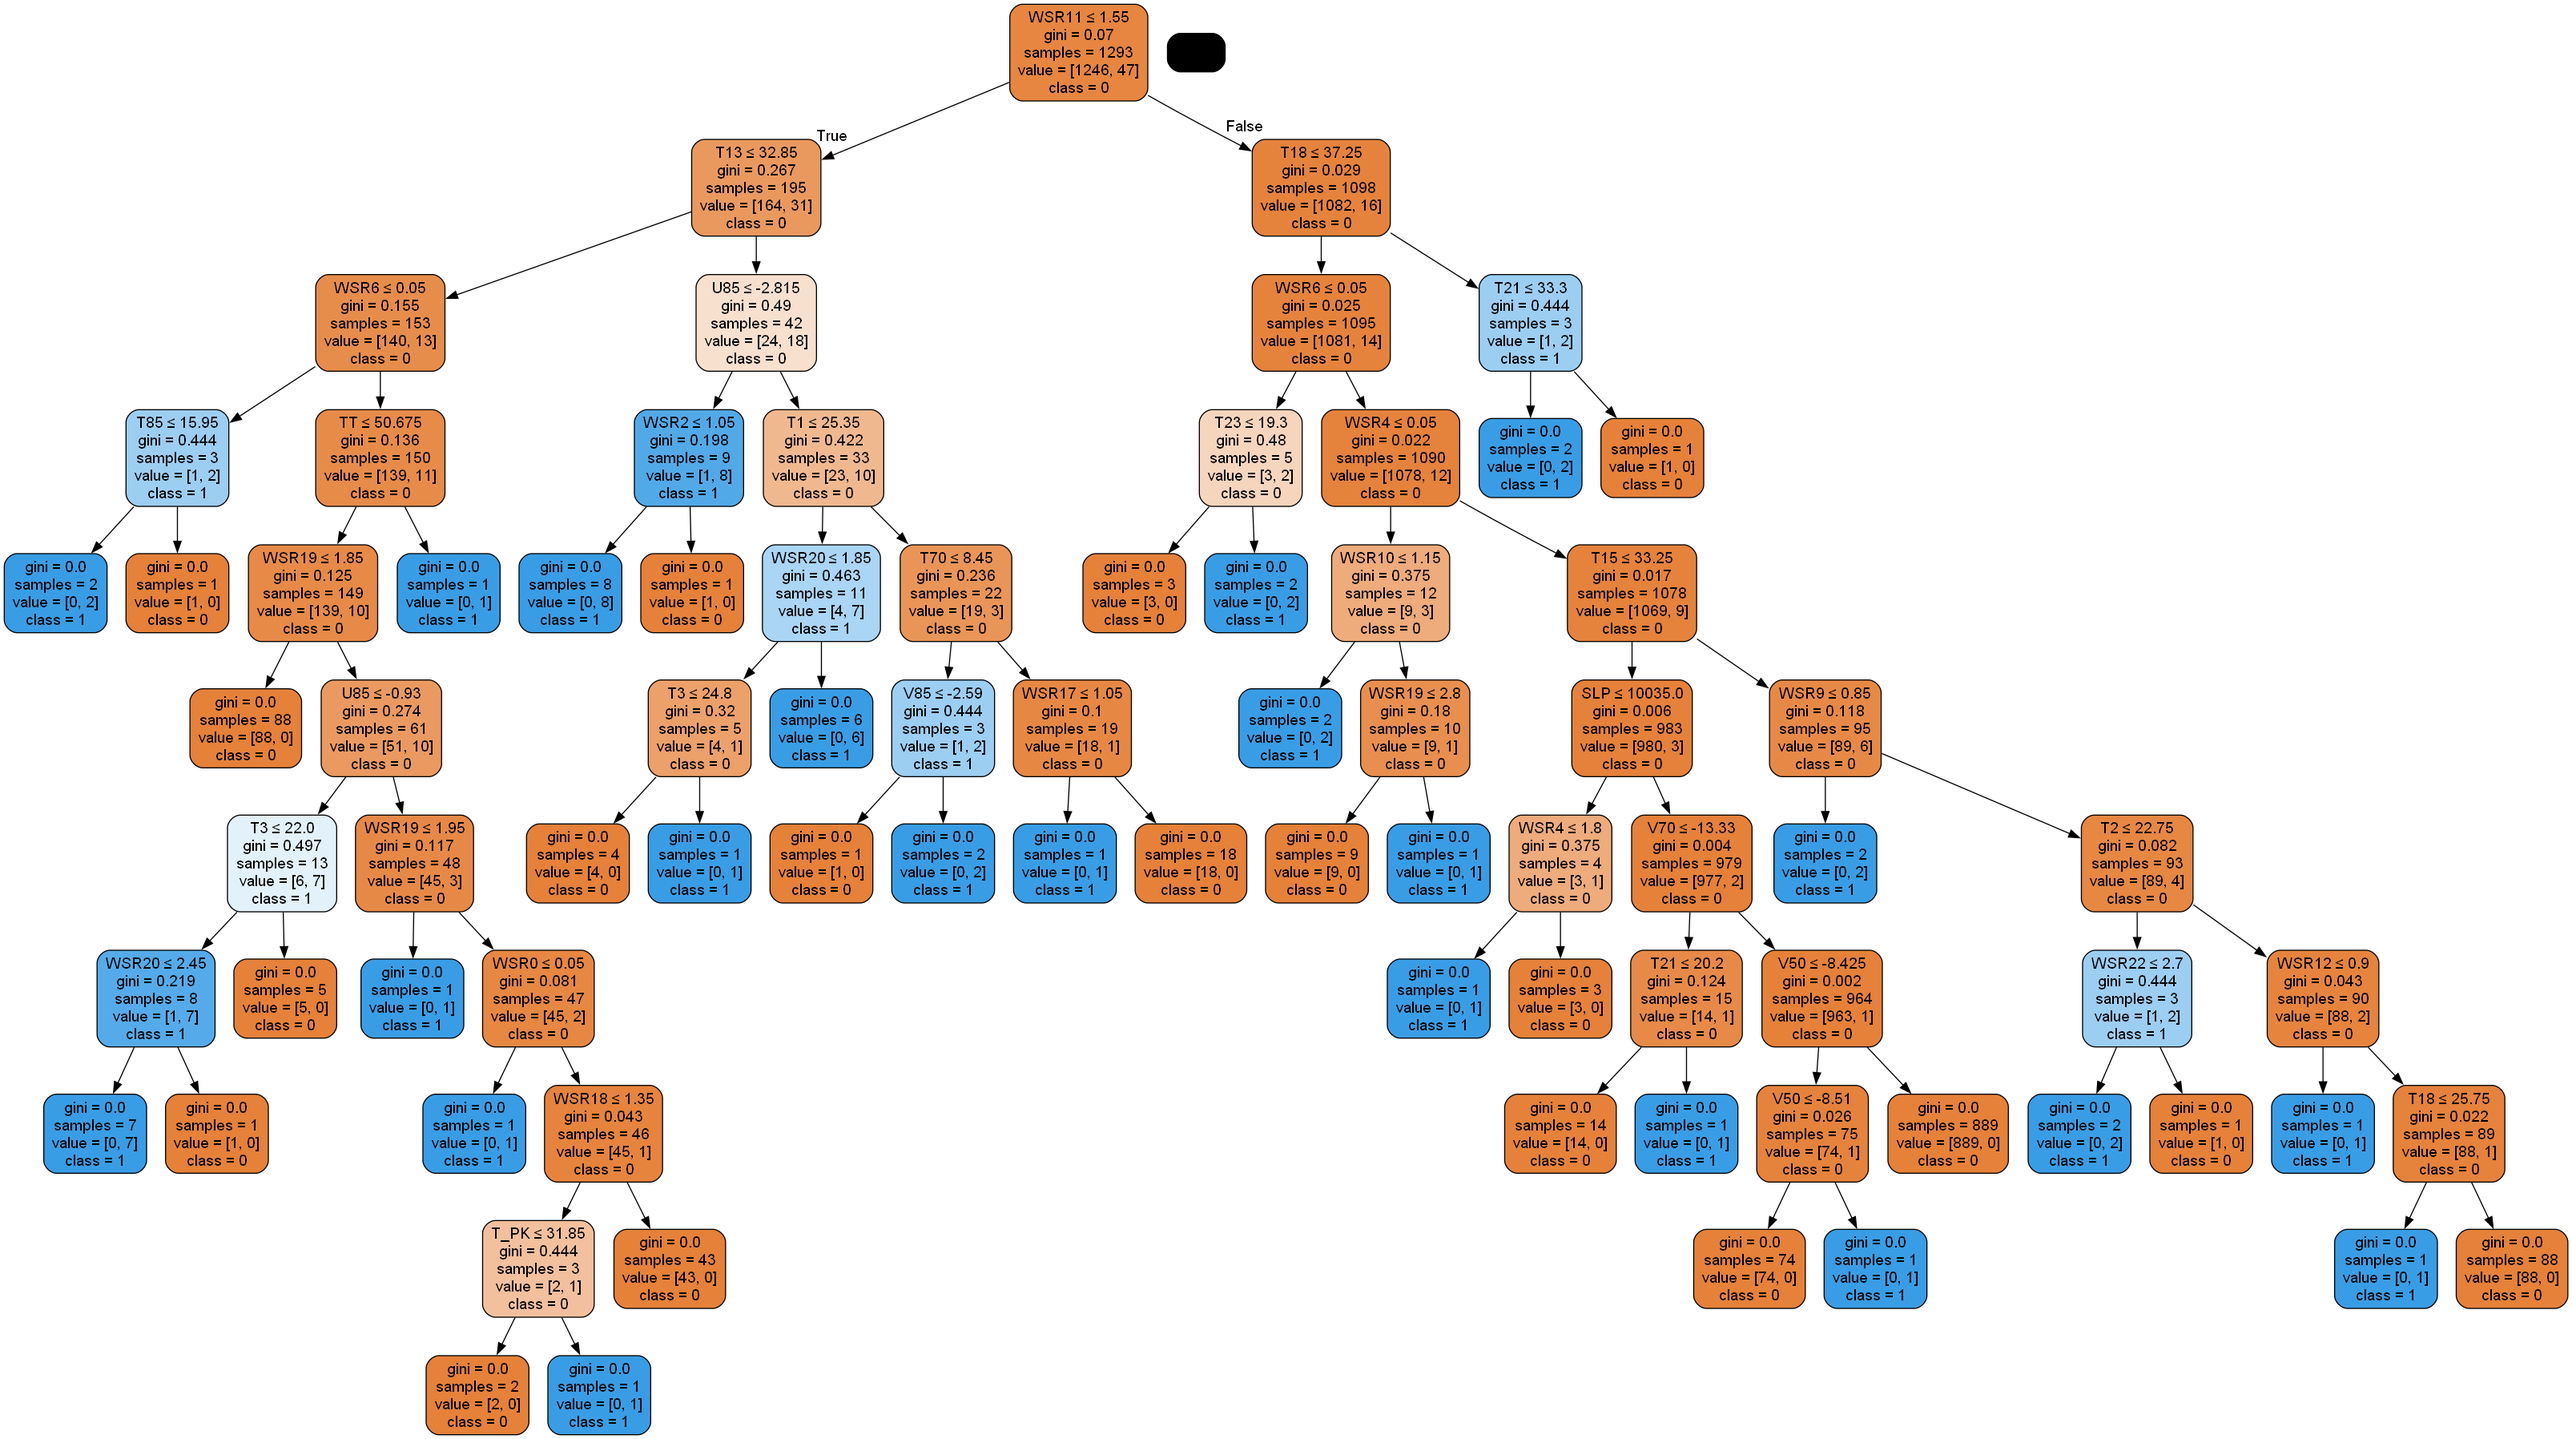
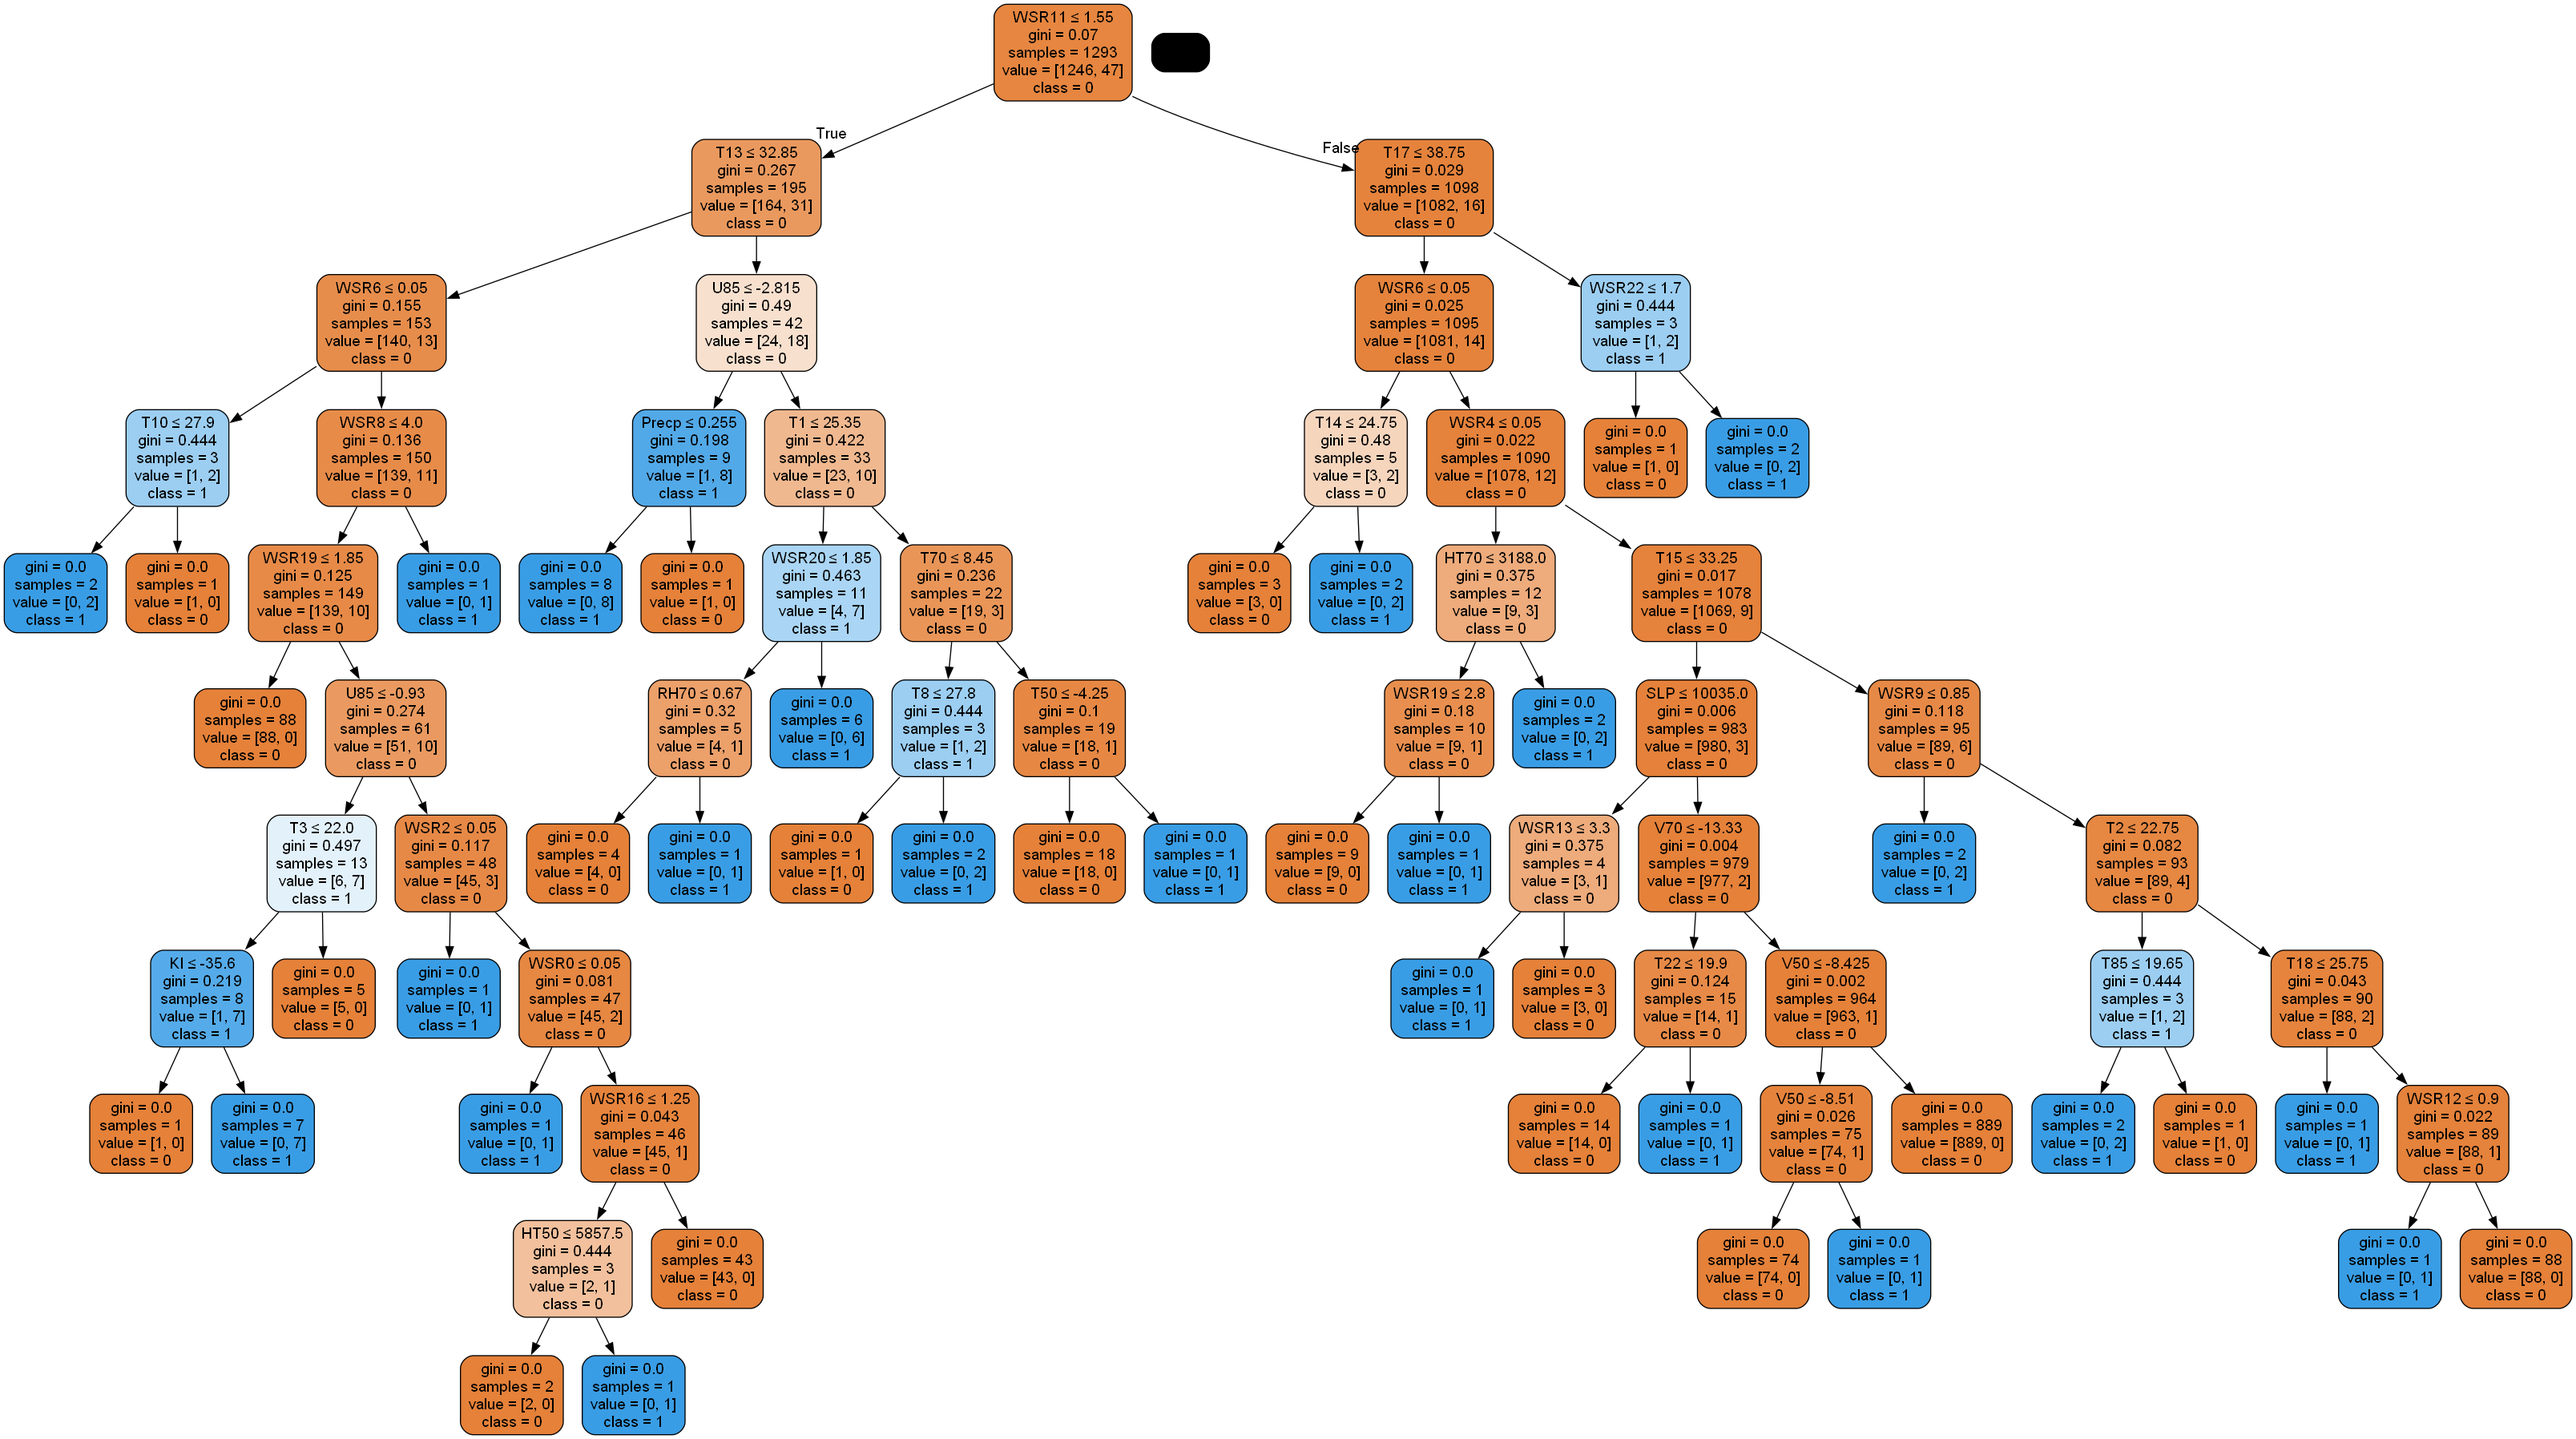
Added CV and Resampling Methods

diff --git a/Ex1/Ozone Layer/NN.py b/Ex1/Ozone Layer/NN.py
@@ -1,7 +1,8 @@
 import time
 import pandas as pd
 from sklearn.neural_network import MLPClassifier
-from sklearn.model_selection import train_test_split
+from sklearn.model_selection import train_test_split, cross_val_score
+from sklearn.preprocessing import StandardScaler
 from sklearn import metrics
 
 df = pd.read_pickle('../../datasets/Ozone/data_preprocessed.pkl')
@@ -12,8 +13,16 @@ y = df.Class
 # Split dataset into training set and test set
 X_train, X_test, y_train, y_test = train_test_split(X, y, test_size=0.3, random_state=1)
 
+# Scale Data. Important for NN.
+scaler = StandardScaler()
+scaler.fit(X_train)
+X_train = scaler.transform(X_train)
+X_test = scaler.transform(X_test)
+
 # Create Neural Network classifier object
-mlp = MLPClassifier(hidden_layer_sizes= (74,74,74,74,74), activation='identity', solver='adam')
+mlp = MLPClassifier(hidden_layer_sizes= (70, 100, 70),
+                    activation='tanh',
+                    solver='adam')
 
 start = time.time()
 # Train Neural Network
@@ -21,14 +30,66 @@ mlp = mlp.fit(X_train,y_train)
 end = time.time()
 duration = end - start
 
-# Predict response for training and test dataset
-pred_train = mlp.predict(X_train)
+# Predict response for test dataset
 pred_test = mlp.predict(X_test)
 
 # Model Accuracy, how often is the classifier correct?
 print(f"Duration: {round(duration,2)}s")
-print(metrics.classification_report(y_train, pred_train))
 print(metrics.classification_report(y_test, pred_test))
 cm = metrics.confusion_matrix(y_test, pred_test)
 disp = metrics.ConfusionMatrixDisplay(confusion_matrix=cm)
 disp.plot().figure_.savefig('Confusion_matrix_Ozone_NN.png')
+
+# Cross Validation
+start = time.time()
+scores = cross_val_score(mlp, X, y, cv=5)
+end = time.time()
+elapsed_time = end - start
+print("Cross validation yielded %0.2f accuracy with a standard deviation of %0.2f in time %0.2f s" % (
+    scores.mean(),
+    scores.std(),
+    elapsed_time))
+
+# Since the class '1' is obviously underpresented we are trying in the following to countersteer
+# by adding more observations of this class using the SMOTE method.
+from imblearn.over_sampling import SMOTE
+
+sm = SMOTE(random_state=22)
+X_train_res, y_train_res = sm.fit_resample(X_train, y_train)
+
+scaler = StandardScaler()
+scaler.fit(X_train_res)
+X_train_res = scaler.transform(X_train_res)
+X_test = scaler.transform(X_test)
+
+# Create Neural Network classifier object
+mlp = MLPClassifier(hidden_layer_sizes= (70, 100, 70),
+                    activation='tanh',
+                    solver='adam')
+
+start = time.time()
+# Train Neural Network
+mlp = mlp.fit(X_train_res,y_train_res)
+end = time.time()
+duration = end - start
+
+# Predict response for test dataset
+pred_test = mlp.predict(X_test)
+
+# Model Accuracy, how often is the classifier correct?
+print("---- Using SMOTE ----")
+print(f"Duration: {round(duration,2)}s")
+print(metrics.classification_report(y_test, pred_test))
+cm = metrics.confusion_matrix(y_test, pred_test)
+disp = metrics.ConfusionMatrixDisplay(confusion_matrix=cm)
+disp.plot().figure_.savefig('Confusion_matrix_Ozone_NN_resampled.png')
+
+# Cross Validation
+start = time.time()
+scores = cross_val_score(mlp, X, y, cv=5)
+end = time.time()
+elapsed_time = end - start
+print("Cross validation yielded %0.2f accuracy with a standard deviation of %0.2f in time %0.2f s" % (
+    scores.mean(),
+    scores.std(),
+    elapsed_time))

diff --git a/Ex1/Ozone Layer/DecisionTree.py b/Ex1/Ozone Layer/DecisionTree.py
@@ -1,7 +1,7 @@
 import time
 import pandas as pd
 from sklearn.tree import DecisionTreeClassifier
-from sklearn.model_selection import train_test_split
+from sklearn.model_selection import train_test_split, cross_val_score
 from sklearn import metrics
 # for plotting the DT
 from six import StringIO
@@ -36,6 +36,16 @@ cm = metrics.confusion_matrix(y_test, pred_test)
 disp = metrics.ConfusionMatrixDisplay(confusion_matrix=cm)
 disp.plot().figure_.savefig('Confusion_matrix_Ozone_DT.png')
 
+#Cross Validation
+start = time.time()
+scores = cross_val_score(clf, X, y, cv=5)
+end = time.time()
+elapsed_time = end - start
+print("Cross validation yielded %0.2f accuracy with a standard deviation of %0.2f in time %0.2f s" % (
+    scores.mean(),
+    scores.std(),
+    elapsed_time))
+
 # Plot decision tree
 dot_data = StringIO()
 export_graphviz(clf, out_file=dot_data,
@@ -44,3 +54,36 @@ export_graphviz(clf, out_file=dot_data,
 graph = pydotplus.graph_from_dot_data(dot_data.getvalue())
 graph.write_png('DecisionTree_Ozone.png')
 Image(graph.create_png())
+
+# Since the class '1' is obviously underpresented we are trying in the following to countersteer
+# by adding more observations of this class using the SMOTE method.
+from imblearn.over_sampling import SMOTE
+
+sm = SMOTE(random_state=22)
+X_train_res, y_train_res = sm.fit_resample(X_train, y_train)
+
+start = time.time()
+# Train Decision Tree Classifier
+clf = clf.fit(X_train_res,y_train_res)
+end = time.time()
+duration = end - start
+
+# Predict response for training and test dataset
+pred_test = clf.predict(X_test)
+
+# Model Accuracy, how often is the classifier correct?
+print(f"Duration: {round(duration,2)}s")
+print(metrics.classification_report(y_test, pred_test))
+cm = metrics.confusion_matrix(y_test, pred_test)
+disp = metrics.ConfusionMatrixDisplay(confusion_matrix=cm)
+disp.plot().figure_.savefig('Confusion_matrix_Ozone_DT_resampled.png')
+
+# Cross Validation
+start = time.time()
+scores = cross_val_score(clf, X, y, cv=5)
+end = time.time()
+elapsed_time = end - start
+print("Cross validation yielded %0.2f accuracy with a standard deviation of %0.2f in time %0.2f s" % (
+    scores.mean(),
+    scores.std(),
+    elapsed_time))

diff --git a/Ex1/Ozone Layer/Naive Bayes.py b/Ex1/Ozone Layer/Naive Bayes.py
@@ -1,7 +1,7 @@
 import time
 import pandas as pd
 from sklearn.naive_bayes import GaussianNB
-from sklearn.model_selection import train_test_split
+from sklearn.model_selection import train_test_split, cross_val_score
 from sklearn import metrics
 
 df = pd.read_pickle('../../datasets/Ozone/data_preprocessed.pkl')
@@ -32,3 +32,13 @@ print(metrics.classification_report(y_test, pred_test))
 cm = metrics.confusion_matrix(y_test, pred_test)
 disp = metrics.ConfusionMatrixDisplay(confusion_matrix=cm)
 disp.plot().figure_.savefig('Confusion_matrix_Ozone_NB.png')
+
+# Cross Validation
+start = time.time()
+scores = cross_val_score(model, X, y, cv=5)
+end = time.time()
+elapsed_time = end - start
+print("Cross validation yielded %0.2f accuracy with a standard deviation of %0.2f in time %0.2f s" % (
+    scores.mean(),
+    scores.std(),
+    elapsed_time))
